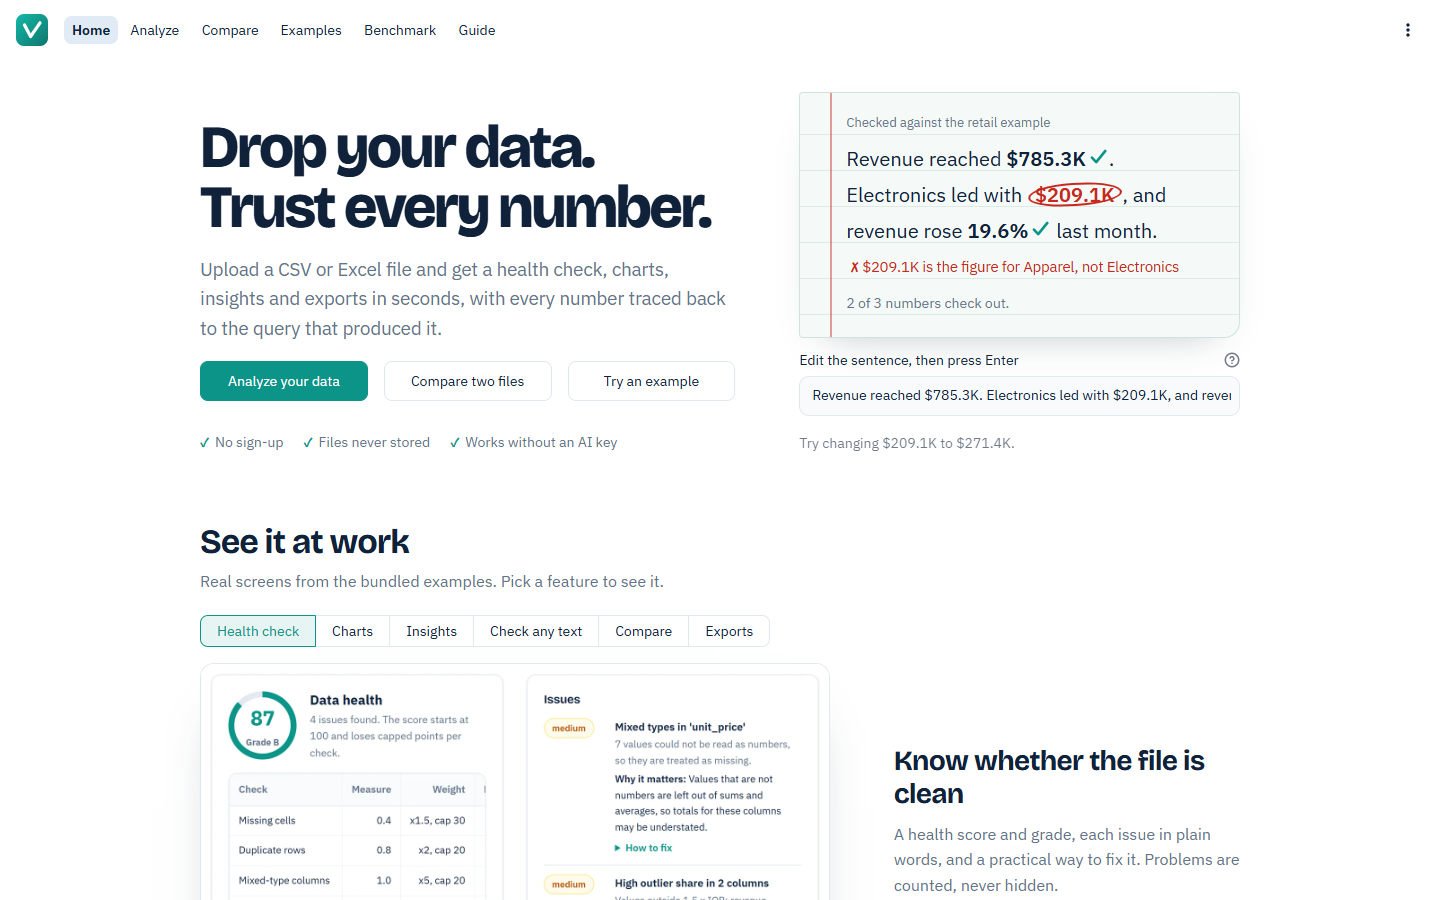
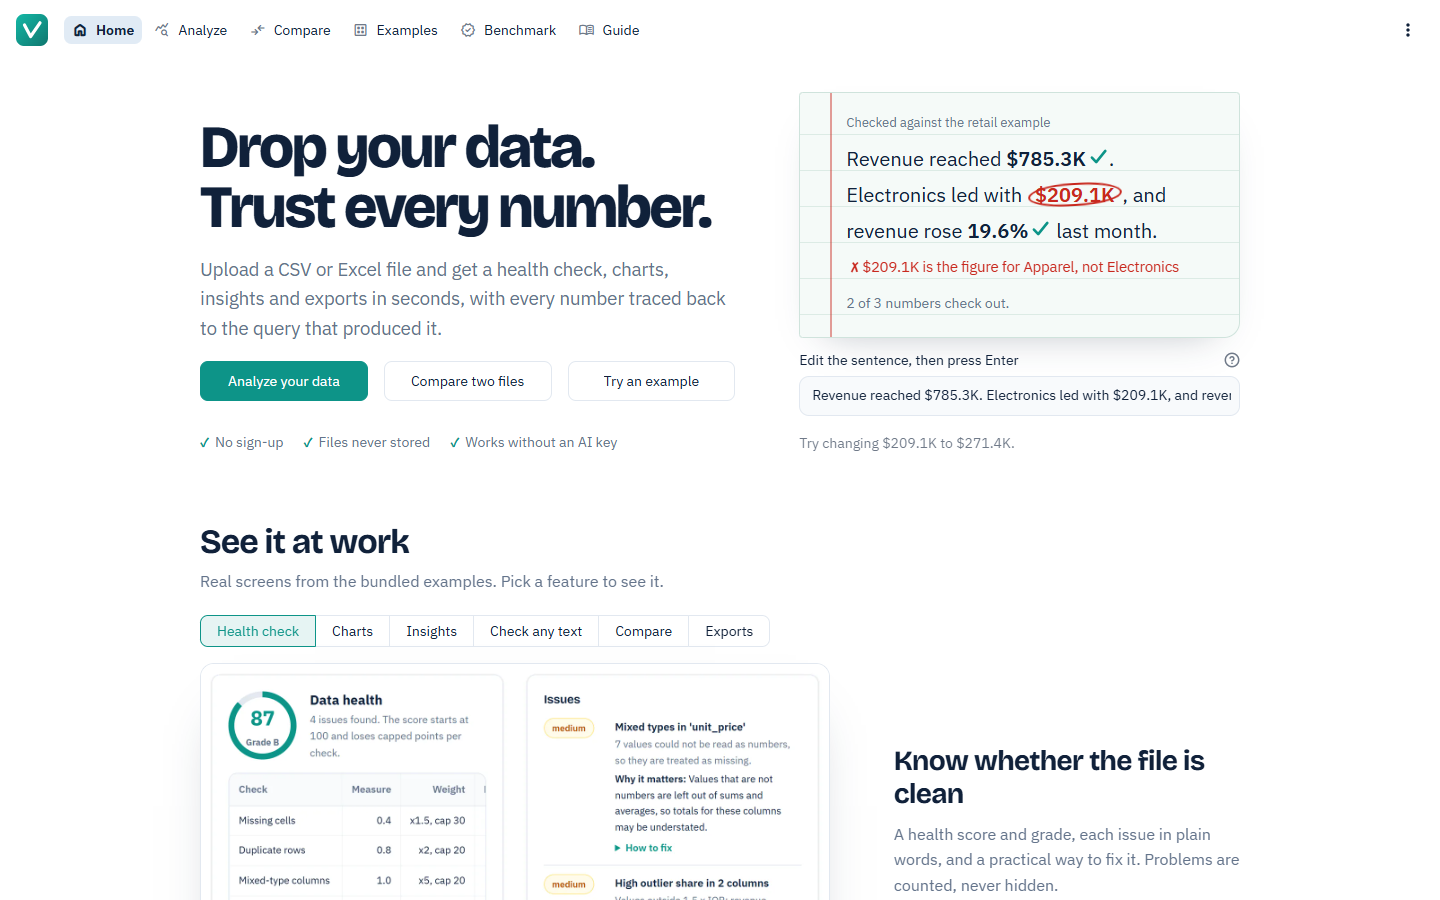
docs: refresh screenshots and the demo for the new interface
The README Home and Overview screenshots and the demo GIF now show the
menu and tab icons, the start-here guide and the new start screens. Also
shortens the first start-here step so it fits on one line.

diff --git a/tests/test_app.py b/tests/test_app.py
@@ -155,10 +155,10 @@ def test_start_here_guide_can_be_dismissed():
     at = _app().run()
     at.switch_page("views/analyze.py").run()
     at.button(key="start_retail").click().run()
-    assert "Check the health score and issues below." in " ".join(m.value for m in at.markdown)
+    assert "Check the health score." in " ".join(m.value for m in at.markdown)
     at.button(key="vd_start_here_close").click().run()
     assert not at.exception, at.exception
-    assert "Check the health score and issues below." not in " ".join(m.value for m in at.markdown)
+    assert "Check the health score." not in " ".join(m.value for m in at.markdown)
 
 
 def test_sidebar_settings_reset_to_automatic():

diff --git a/ui/tabs/overview.py b/ui/tabs/overview.py
@@ -61,7 +61,7 @@ def _issues(health: HealthReport) -> str:
 
 GUIDE_KEY = "vd_hide_start_here"
 START_HERE = [
-    ("Overview", "Check the health score and issues below."),
+    ("Overview", "Check the health score."),
     ("Charts", "See what stands out."),
     ("Insights", "Read a checked summary."),
     ("Export", "Download a report."),
